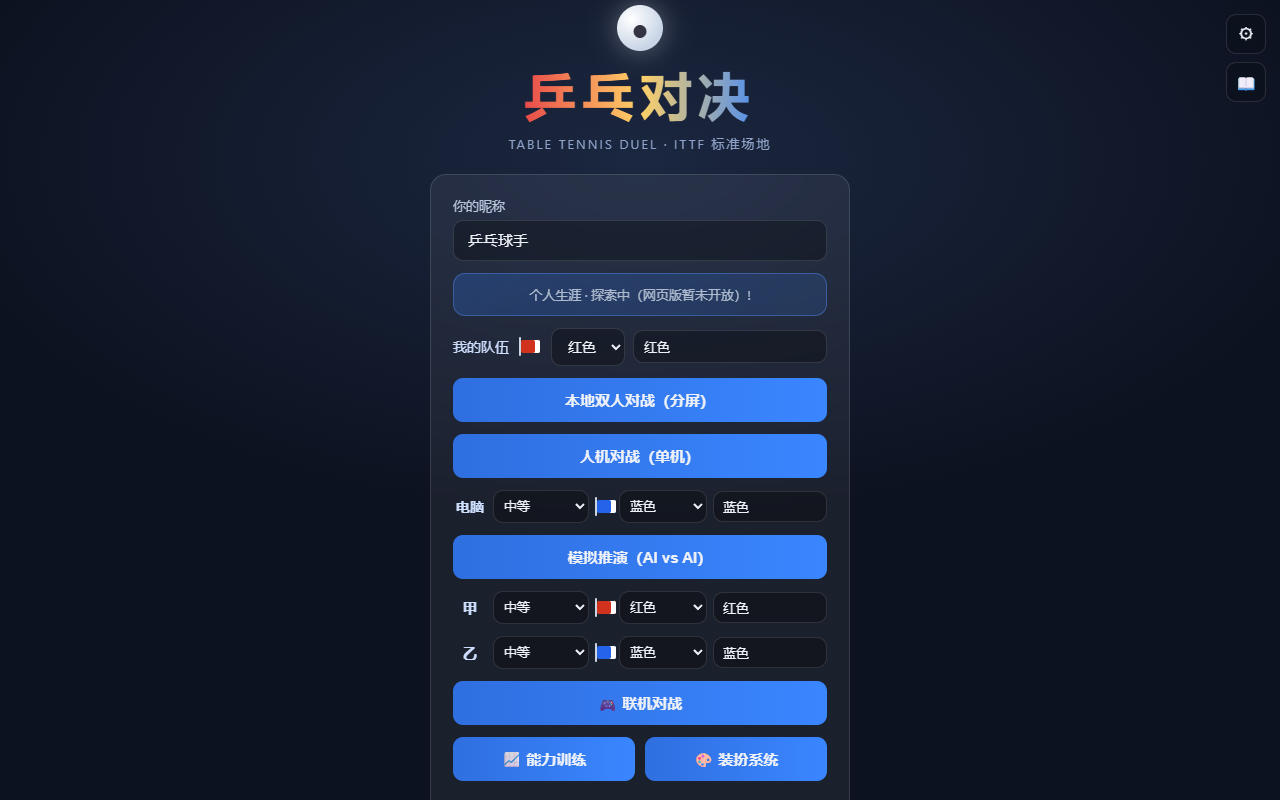
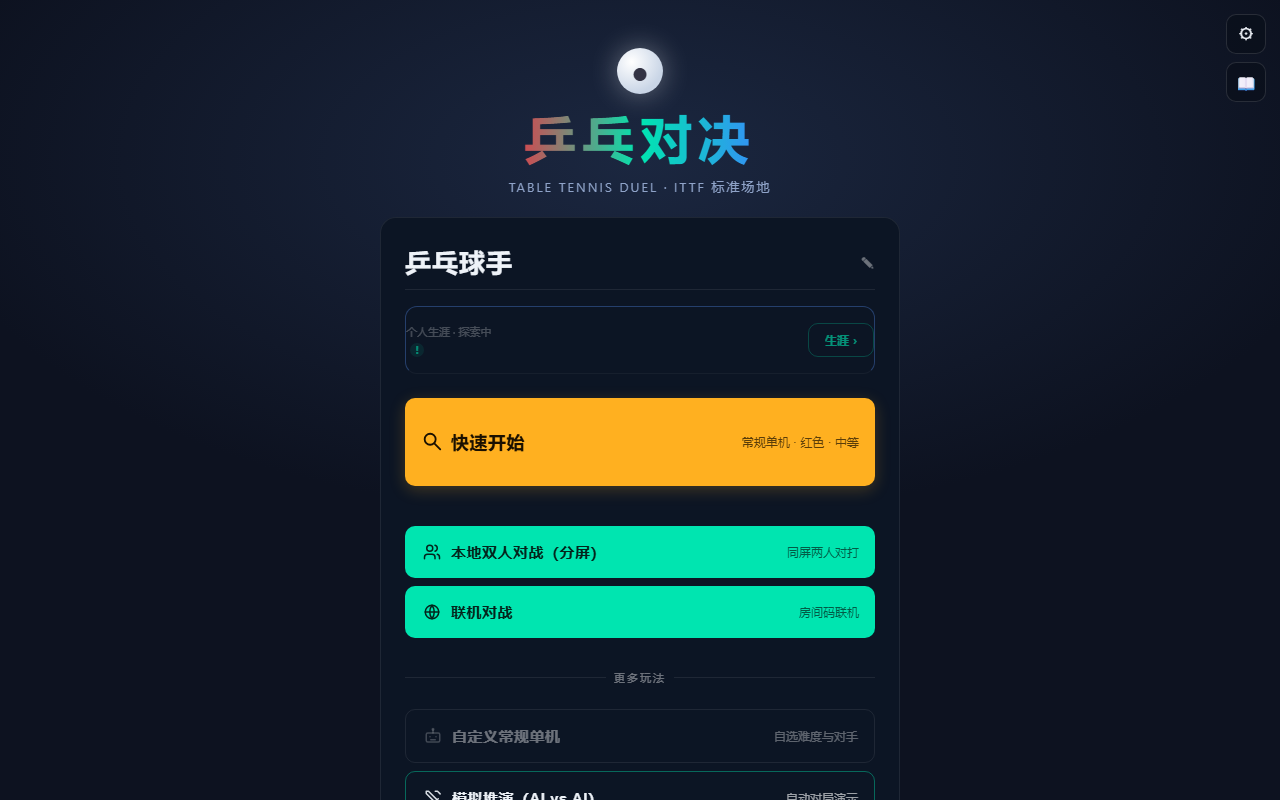
feat: 更新乒乓对决卡片预览图（新版界面）+ 同步界面修复

Changed region(s): [[0.3125, 0.4688, 0.6875, 1.0], [0.3125, 0.0, 0.6875, 0.4375]]

diff --git a/projects/ping-pong-duel/js/app/records.js b/projects/ping-pong-duel/js/app/records.js
@@ -164,15 +164,16 @@
 
   // 把三栏内容分别写进各自的单元格（互不挤压）。
   // 单元格引用走 PPD.ui（getElementById），避免依赖 querySelector。
+  // 空内容一律折叠该格，避免留下空白格子（网页版无引导文案/无战绩时会出现）。
   function paintDashboard(trendHtml, guideHtmlStr, entryHtml) {
     const el = PPD.ui.recordsPanel;
     if (!el) return;
     const t = PPD.ui.dashTrend;
     const g = PPD.ui.dashGuide;
     const e = PPD.ui.dashEntry;
-    if (t) t.innerHTML = trendHtml;
-    if (g) g.innerHTML = guideHtmlStr;
-    if (e) e.innerHTML = entryHtml;
+    if (t) { t.innerHTML = trendHtml || ''; t.hidden = !trendHtml; }
+    if (g) { g.innerHTML = guideHtmlStr || ''; g.hidden = !guideHtmlStr; }
+    if (e) { e.innerHTML = entryHtml || ''; e.hidden = !entryHtml; }
     // 宿主缺少单元格引用时（极简宿主）退回整块渲染，保证信息不丢
     if (!t && !g && !e) el.innerHTML = trendHtml + guideHtmlStr + entryHtml;
   }

diff --git a/projects/ping-pong-duel/css/style.css b/projects/ping-pong-duel/css/style.css
@@ -1150,6 +1150,9 @@ input.invalid, input[aria-invalid="true"] {
 }
 .dash-cell:first-child { padding-left: 0; }
 .dash-cell + .dash-cell { border-left: 1px solid var(--line-1); }
+/* 无内容的档位自动折叠，避免留下空白格子（如网页版无引导文案、无战绩时） */
+.dash-cell[hidden] { display: none; }
+.dash-cell[hidden] + .dash-cell { border-left: none; }
 /* 生涯二级入口独占右侧一格，不与动态信息抢等宽 */
 .dash-entry { flex: none; padding-right: 0; align-items: flex-end; }
 .dash-label {
